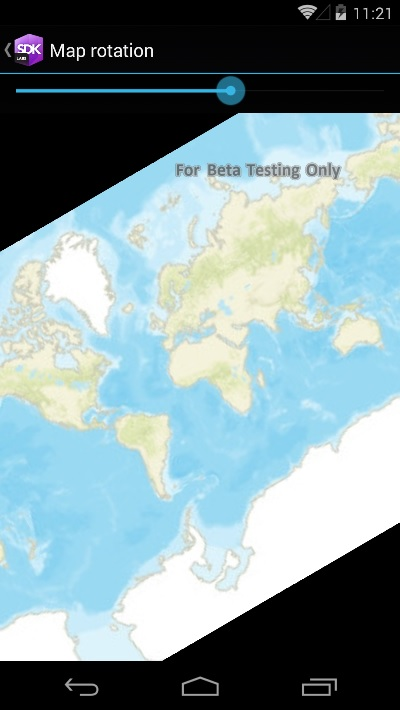
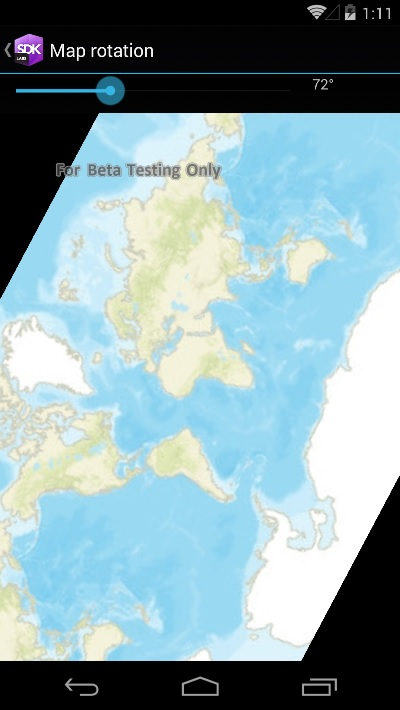
Updated the all of the Xamarin MapRotation samples to be consistent. Meaning they user the sample TYPES and the display the MapView.MapViewRotation in a label.

diff --git a/src/Forms/Shared/Samples/Map/MapRotation/MapRotation.xaml b/src/Forms/Shared/Samples/Map/MapRotation/MapRotation.xaml
@@ -9,7 +9,10 @@
     <RowDefinition Height="auto" />
     <RowDefinition Height="*" />
   </Grid.RowDefinitions>
-    <Slider x:Name="MySlider" Minimum="-180" Maximum="180" Value="0" ValueChanged="MySlider_ValueChanged"/>
+    <StackLayout x:Name="MyStackLayout" Orientation="Horizontal" Grid.Row="0">
+    <Slider x:Name="MySlider" Minimum="0" Maximum="180" Value="0" ValueChanged="MySlider_ValueChanged" WidthRequest="300"/>
+    <Label x:Name="MyLabel" />
+    </StackLayout>
     <esriUI:MapView x:Name="MyMapView" Grid.Row="1"/>
   </Grid>
 </ContentPage>

diff --git a/src/iOS/Xamarin.iOS/Samples/Map/MapRotation/MapRotation.cs b/src/iOS/Xamarin.iOS/Samples/Map/MapRotation/MapRotation.cs
@@ -47,12 +47,12 @@ namespace ArcGISRuntimeXamarin.Samples.MapRotation
             MapView myMapView = new MapView();
             myMapView.Frame = new CoreGraphics.CGRect(0, yOffset, View.Bounds.Width, View.Bounds.Height - yOffset);
 
-            // Create a new Map instance with the basemap               
-            Map myMap = new Map(SpatialReferences.WebMercator);
-            myMap.Basemap = Basemap.CreateStreets();
+			// Create a new Map instance with the basemap  
+			var myBasemap = Basemap.CreateStreets();
+			var myMap = new Map(myBasemap);
 
-            // Assign the Map to the MapView
-            myMapView.Map = myMap;
+			// Assign the Map to the MapView
+			myMapView.Map = myMap;
 
             // Create a label to display the MapView rotation value
             UILabel rotationLabel = new UILabel();

diff --git a/src/Forms/Shared/Samples/Map/MapRotation/MapRotation.xaml.cs b/src/Forms/Shared/Samples/Map/MapRotation/MapRotation.xaml.cs
@@ -32,8 +32,9 @@ namespace ArcGISRuntimeXamarin.Samples.MapRotation
 
         private void Initialize()
         {
-			// Create new Map with basemap
-			var myMap = new Map(Basemap.CreateStreets());
+			// Create a new Map instance with the basemap  
+			var myBasemap = Basemap.CreateStreets();
+			var myMap = new Map(myBasemap);
 
 			// Assign the map to the MapView
 			MyMapView.Map = myMap;
@@ -43,6 +44,9 @@ namespace ArcGISRuntimeXamarin.Samples.MapRotation
 		{
 			// Set the MapView rotation to that of the Slider.
 			MyMapView.SetViewpointRotationAsync(e.NewValue);
+
+			// Display the rotation value in the Label formatted nicely with degree symbol.
+			MyLabel.Text = string.Format("{0:0}°", MyMapView.MapRotation);
 		}
 	}
 }
